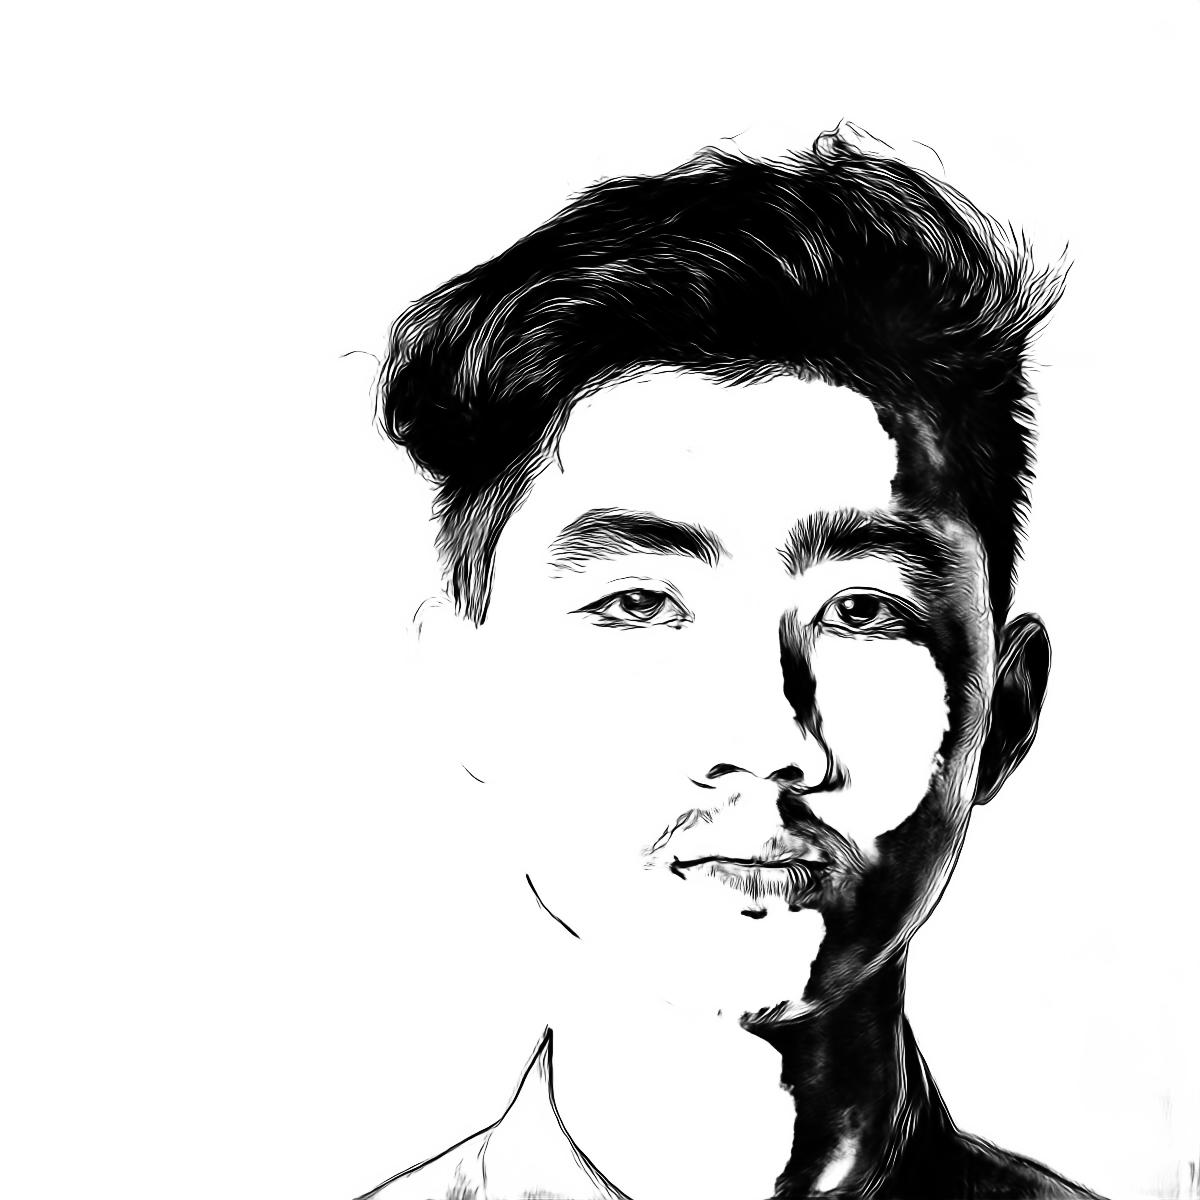
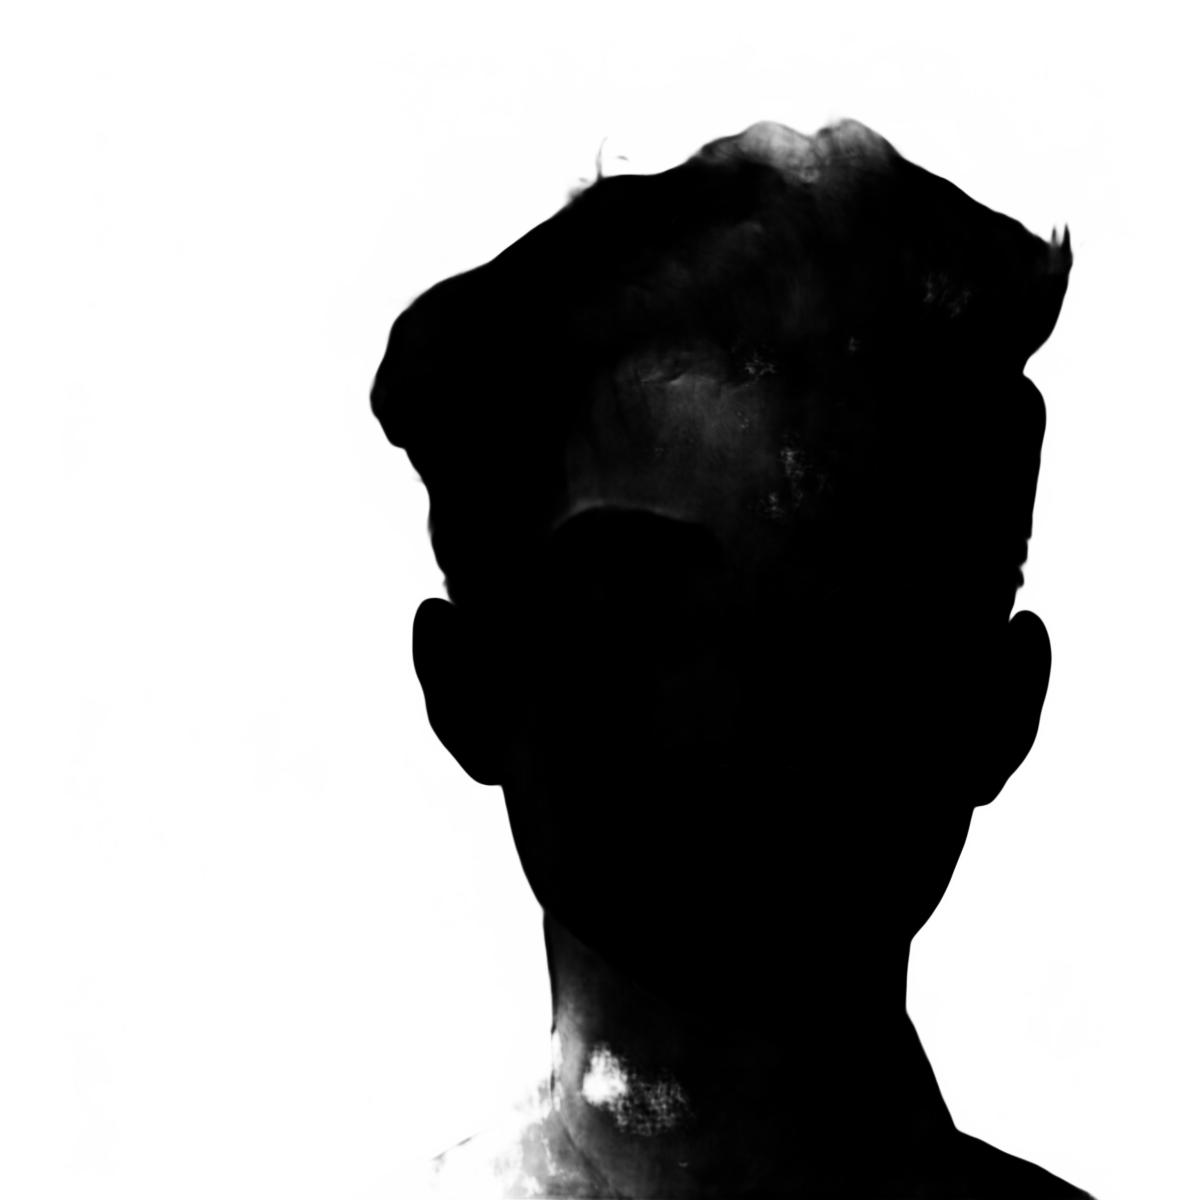
Device info, readme

Changed region(s): [[0.2775, 0.0925, 0.925, 1.0], [0.9558, 0.9558, 1.0, 1.0]]

diff --git a/inference.py b/inference.py
@@ -1,4 +1,5 @@
 from tinygrad import Tensor
+from tinygrad.device import Device
 from tinygrad.helpers import get_child
 import numpy as np
 from PIL import Image
@@ -6,6 +7,7 @@ from skimage import io
 import os
 import torch
 from model.u2net_tiny import U2NET
+import time
 
 def normPRED(d):
     ma, mi = d.max(), d.min()
@@ -58,12 +60,22 @@ def inference(net, input):
 
 if __name__ == "__main__":
     unet = U2NET(3,1)
-    loaded = torch.load("./weights/u2net_portrait.pth", map_location="cpu")
+    # portrait drawing model: u2net_portrait.pth"
+    # human segmentation model: u2net_human_seq.pth
+    print("Loading weights...")
+    loaded = torch.load("./weights/u2net_human_seg.pth", map_location="cpu")
 
     for k, v in loaded.items():
       get_child(unet, k).assign(v.numpy()).realize()
 
     image = Image.open("./example_data/test2.jpg")
     image_np = np.array(image)
+
+    print(f"Running U^2 Net on device: {Device.DEFAULT}")
+    start = time.perf_counter()
     pred = inference(unet, image_np)
+    end = time.perf_counter()
+    elapsed_ms = (end - start) * 1000
+    print(f"Inference time: {elapsed_ms:.3f} ms")
+
     save_output("./example_data/test2.jpg", pred, "./")

diff --git a/README.md b/README.md
@@ -4,3 +4,12 @@ This repository contains the [tinygrad](https://github.com/tinygrad/tinygrad)-po
 
 ## Setup
 
+```sh
+pip3 install -r requirements.txt
+
+python3 inference.py
+```
+
+## License
+
+Apache-2.0 license
